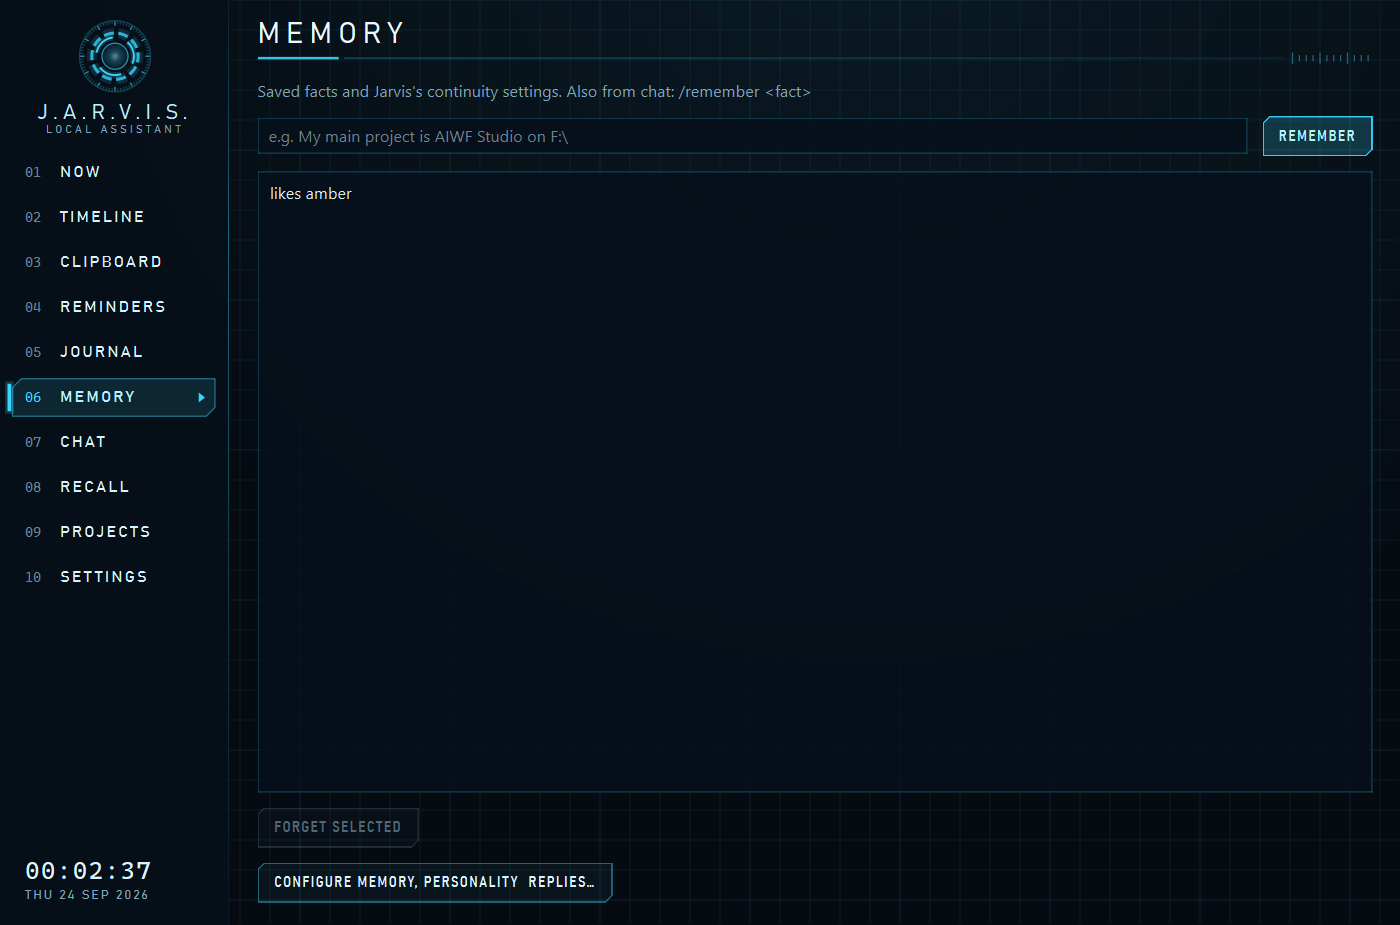
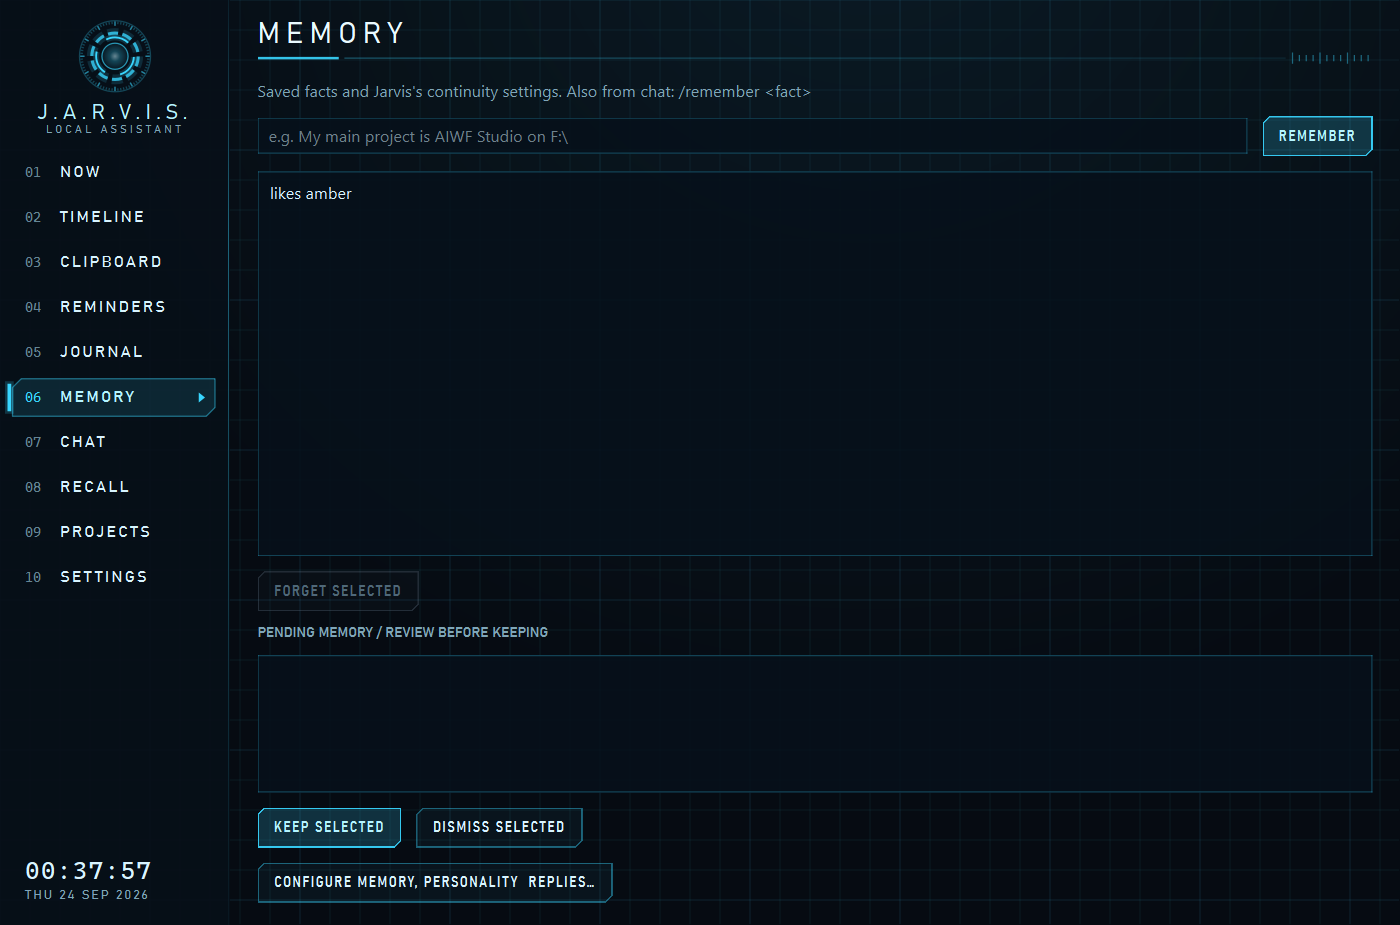
Show Jarvis mission dashboard and memory core

diff --git a/README.md b/README.md
@@ -4,13 +4,19 @@ Jarvis Assistant is Shawn's local Windows assistant. This repository holds scree
 
 The images were captured from an isolated UI test instance on 2026-09-24. Activity, memory, and chat entries shown here are synthetic. The local model was not loaded for these captures.
 
-## Console
+## Mission console
 
 ![Now dashboard](screenshots/now.png)
 
 ## Continuity
 
 ![Memory page](screenshots/memory.png)
+
+Memory Core controls what Jarvis recalls, which activity and task signals it uses, when Bonsai 8B may consult Claude or Codex, and how it replies. New durable facts proposed by 8B wait for Shawn to review them.
+
+![Memory Core: keep and recall](screenshots/memory-core-keep.png)
+
+![Memory Core: task signals and tool access](screenshots/memory-core-act.png)
 
 ![Chat page](screenshots/chat.png)
 
@@ -20,4 +26,4 @@ The images were captured from an isolated UI test instance on 2026-09-24. Activi
 
 ![Settings page](screenshots/settings.png)
 
-Projects currently work from an explicit goal in a bounded local workspace. Learning an objective from other apps and carrying it into autonomous away work is still in development.
+Projects currently work from an explicit goal in a bounded local workspace. Learning an objective from other apps and carrying it into autonomous away work is still in development. The model was not loaded for these screenshots, so the gallery does not demonstrate a live AI consultation or memory proposal.
